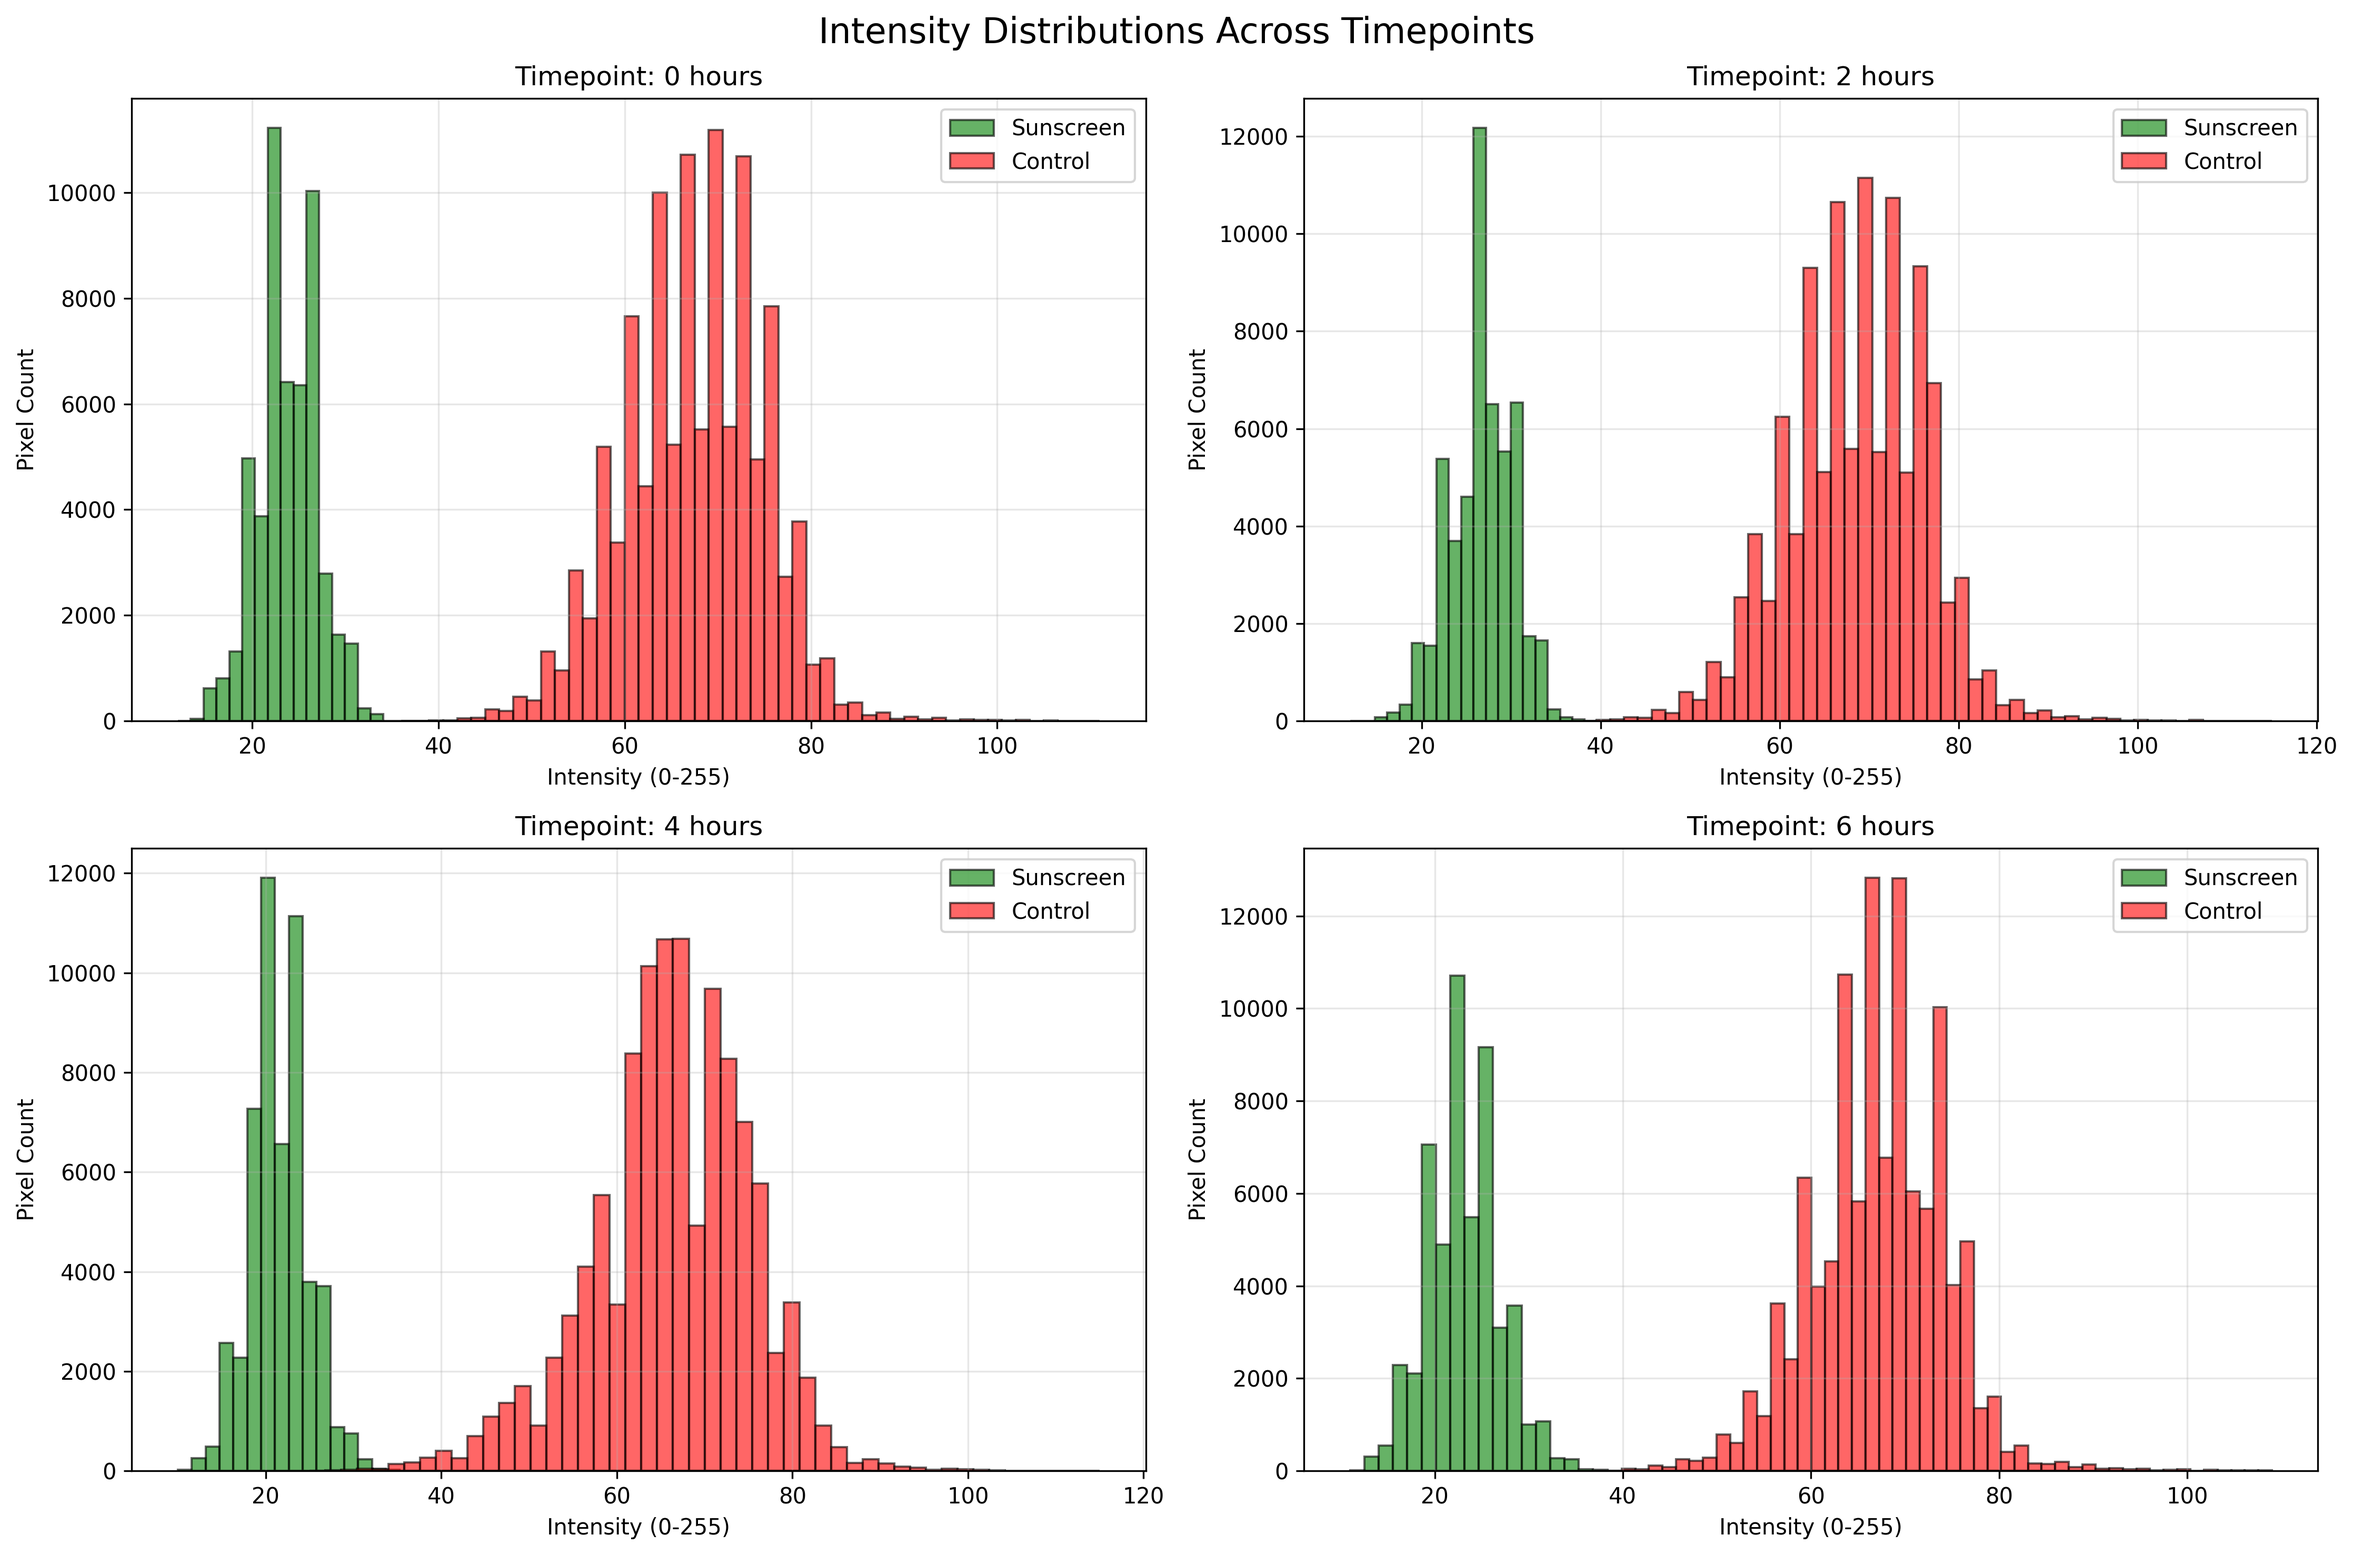
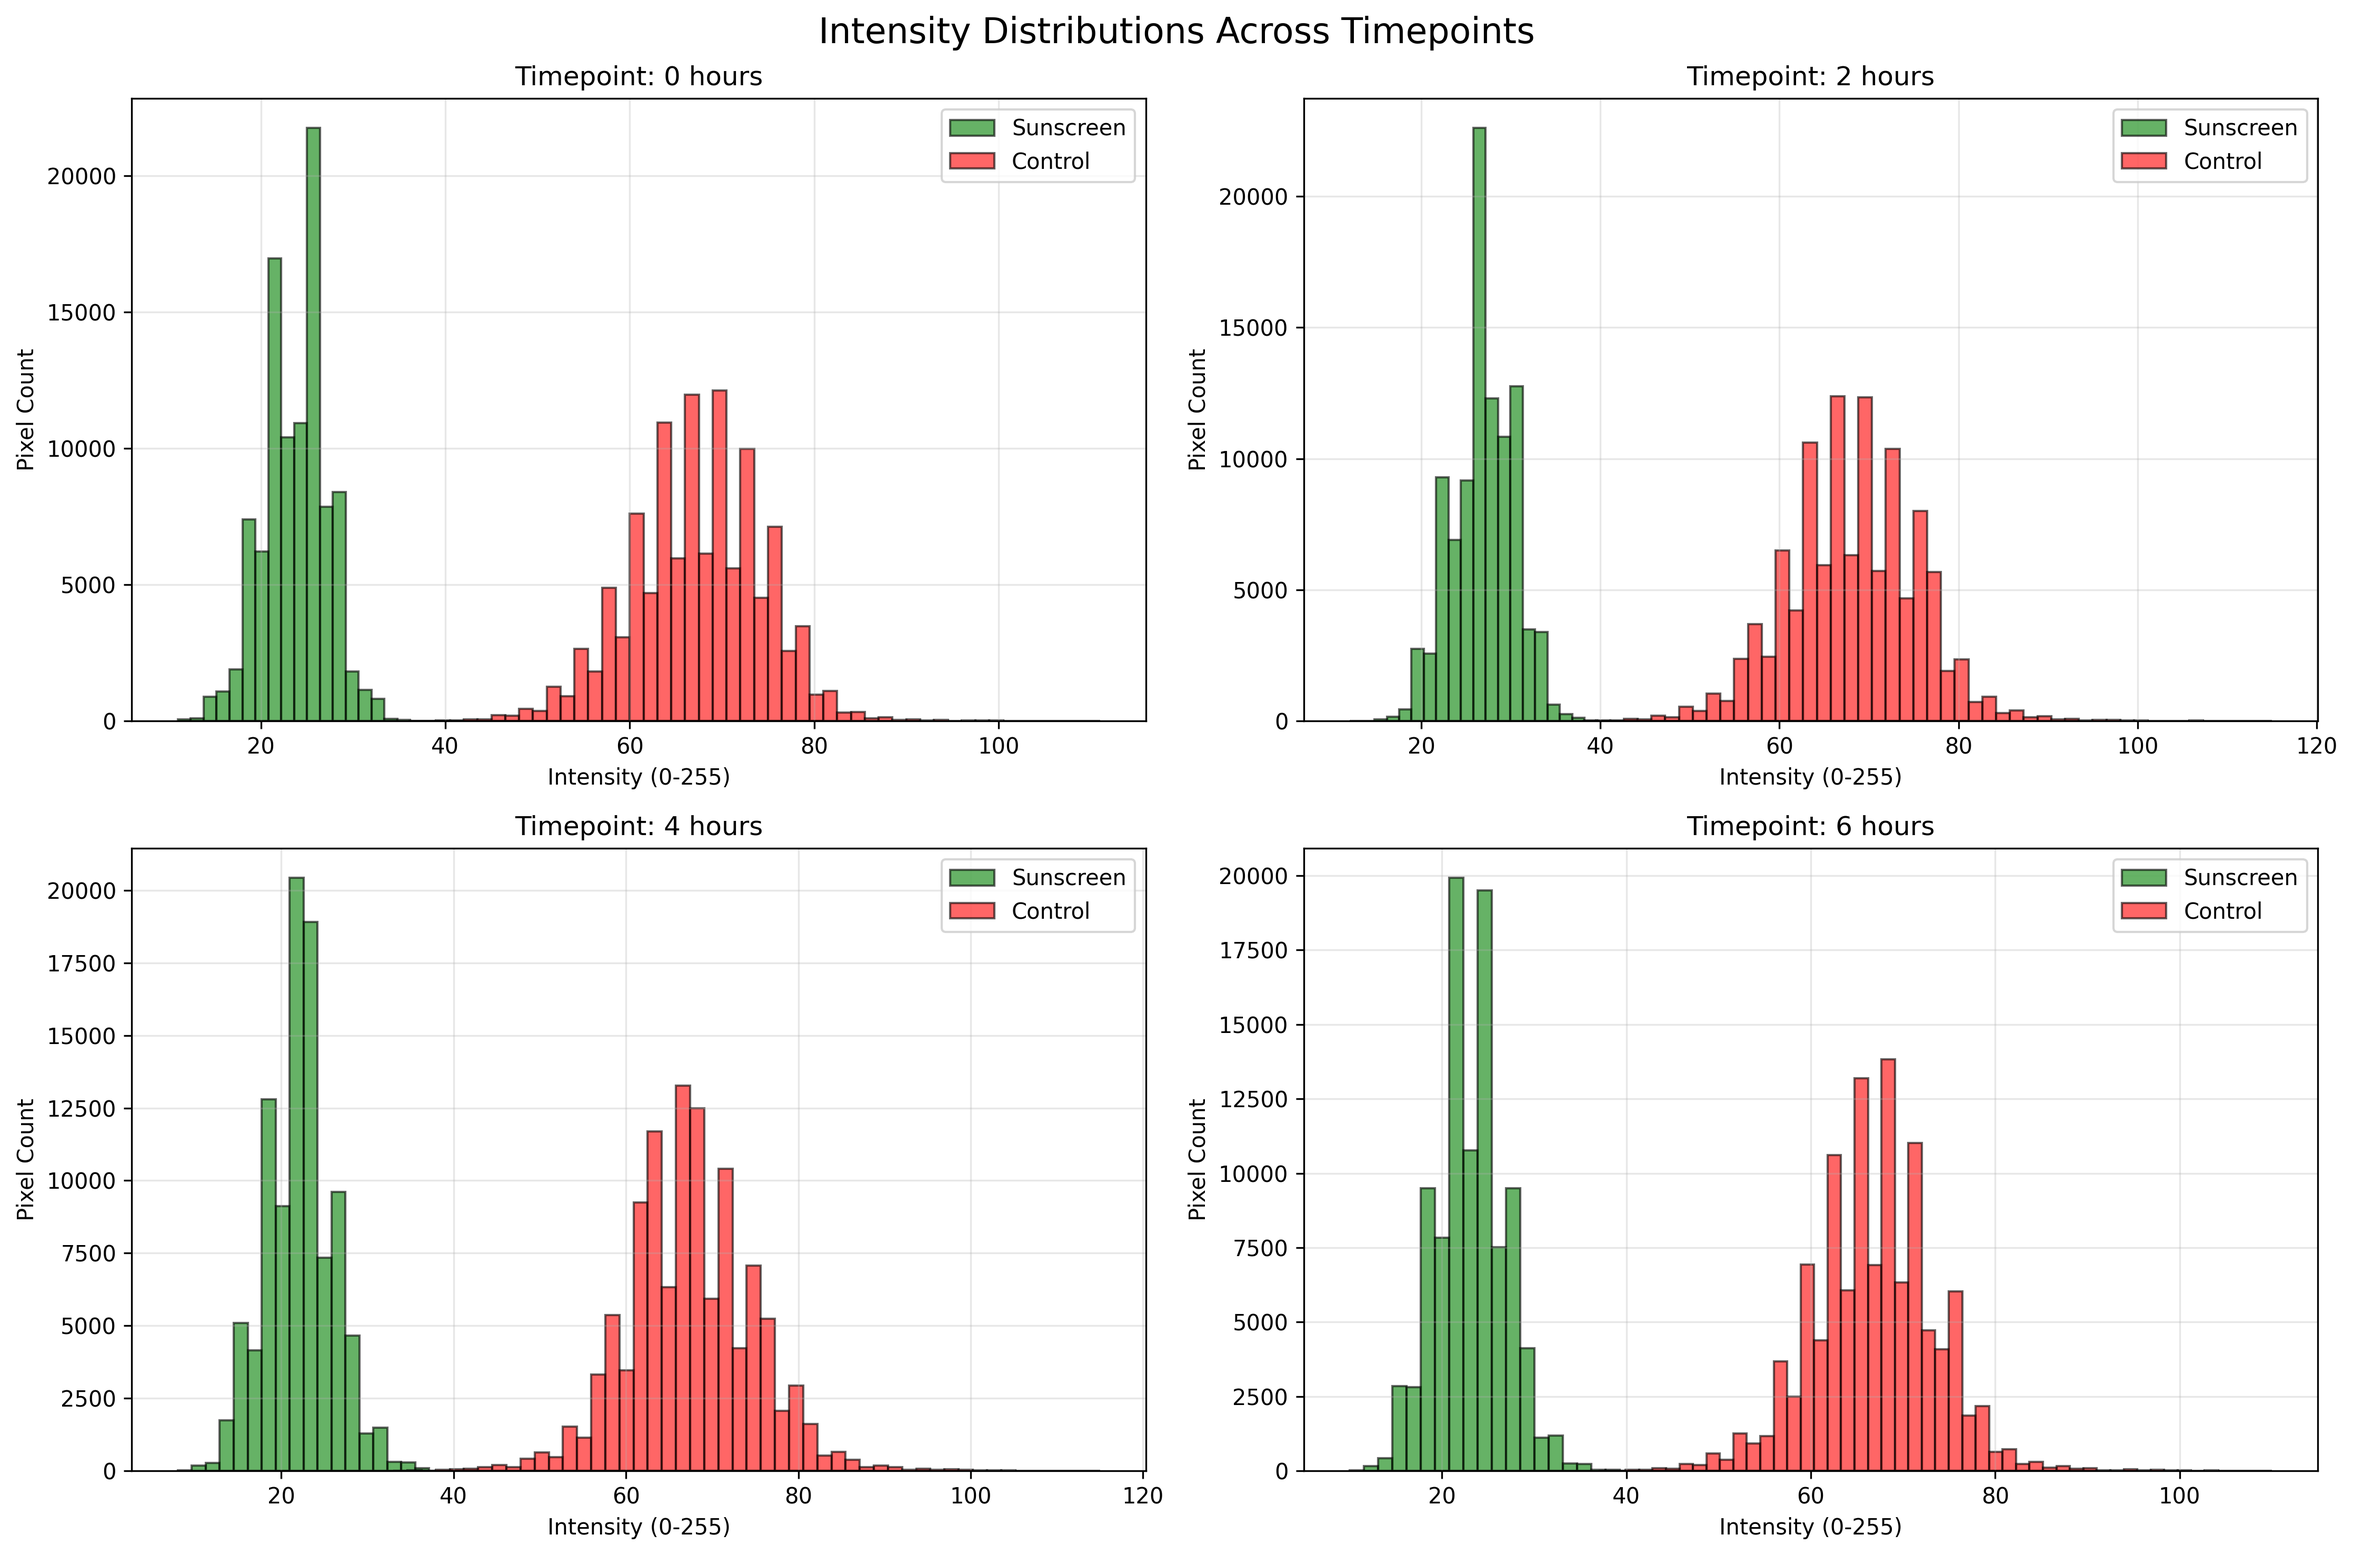
fixed roi points - updates needed

diff --git a/main.py b/main.py
@@ -1,15 +1,18 @@
 import sys
 import os
 from pathlib import Path
+
+project_root = Path(__file__).parent
+sys.path.insert(0, str(project_root))
+
+
 from src.core.image_loader import ImageLoader
-from src.ui.roi_selector import ROISelector
+# from src.ui.roi_selector import ROISelector
+from src.ui.roi_setter import ROISetter
 from src.core.intensity_analyzer import IntensityAnalyzer
 from src.data.exporter import DataExporter
 from src.visualization.plotter import Plotter
 
-#adding the project root to Python path
-project_root = Path(__file__).parent
-sys.path.insert(0, str(project_root))
 
 
 
@@ -23,21 +26,17 @@ def main():
     timepoints = [0, 2, 4, 6]
     Path("outputs/figures").mkdir(parents=True, exist_ok=True)
     Path("outputs/reports").mkdir(parents=True, exist_ok=True)
-    #just in case, print current directory - can delete later
-    print(f"Current directory: {Path.cwd()}")
     
-    #can change later on, given that images will always be there
-    for path in image_paths:
-        if not Path(path).exists():
-            print(f"Image not found: {path}")
-            return
         
     image_loader = ImageLoader()
-    roi_selector = ROISelector()
-    intensity_analyzer = IntensityAnalyzer(roi_selector)
+    # roi_selector = ROISelector()
+    roi_setter = ROISetter()
+    # intensity_analyzer = IntensityAnalyzer(roi_selector)
+    intensity_analyzer = IntensityAnalyzer(roi_setter)
     images = image_loader.load_images(image_paths)
     
-    roi_selector.set_rois(images[0])
+    # roi_selector.set_rois(images[0])
+    roi_setter.set_rois(images[0])
     
     results = intensity_analyzer.analyze_all_timepoints(images, timepoints)
 
@@ -47,8 +46,5 @@ def main():
     #PLOTS WORRY ABOUT LATER, WORK ON CODE STRUCTURE AND FINDINGS FIRST
     Plotter.plot_intensity_distributions(results, 'outputs/figures/histograms.png')
     
-    sunscreen_0h = results[0]['sunscreen']['intensities']
-    print(f"\nTotal pixels analyzed at 0h sunscreen ROI: {len(sunscreen_0h)}")
-
 if __name__ == "__main__":
     main()

diff --git a/src/ui/roi_setter.py b/src/ui/roi_setter.py
@@ -1,0 +1,30 @@
+import cv2
+
+class ROISetter:
+    def __init__(self):
+        # HARDCODED ROIs based on your previous selection
+        self.sunscreen_roi = (620, 813, 300, 326)   # Your left square
+        self.control_roi = (1240, 773, 300, 373)    # Your between squares
+        print("Using fixed ROIs:")
+        print(f"  Sunscreen: {self.sunscreen_roi}")
+        print(f"  Control: {self.control_roi}")
+    
+    def set_rois(self, reference_image):
+        """No longer interactive - just use fixed ROIs"""
+        # Optional: Visualize the ROIs for verification
+        img_with_rois = reference_image.copy()
+        
+        # Draw sunscreen ROI (green)
+        x, y, w, h = self.sunscreen_roi
+        cv2.rectangle(img_with_rois, (x, y), (x+w, y+h), (0, 255, 0), 3)
+        
+        # Draw control ROI (red)  
+        x, y, w, h = self.control_roi
+        cv2.rectangle(img_with_rois, (x, y), (x+w, y+h), (0, 0, 255), 3)
+        
+        # Show the image with ROIs (optional)
+        cv2.imshow("Fixed ROIs", cv2.resize(img_with_rois, (800, 600)))
+        cv2.waitKey(1000)  # Show for 1 second
+        cv2.destroyAllWindows()
+        
+        return self.sunscreen_roi, self.control_roi

diff --git a/tests/test_imports.py b/tests/test_imports.py
@@ -1,0 +1,16 @@
+import sys
+from pathlib import Path
+
+def test_imports():
+    project_root = Path(__file__).resolve().parents[1]
+    sys.path.insert(0, str(project_root))
+
+    # These imports should succeed
+    from src.ui.roi_setter import ROISetter
+    from src.ui.roi_selector import ROISelector
+    from src.core.intensity_analyzer import IntensityAnalyzer
+
+    # Basic assertions that classes are present
+    assert hasattr(ROISetter, '__init__')
+    assert hasattr(ROISelector, '__init__')
+    assert hasattr(IntensityAnalyzer, '__init__')
